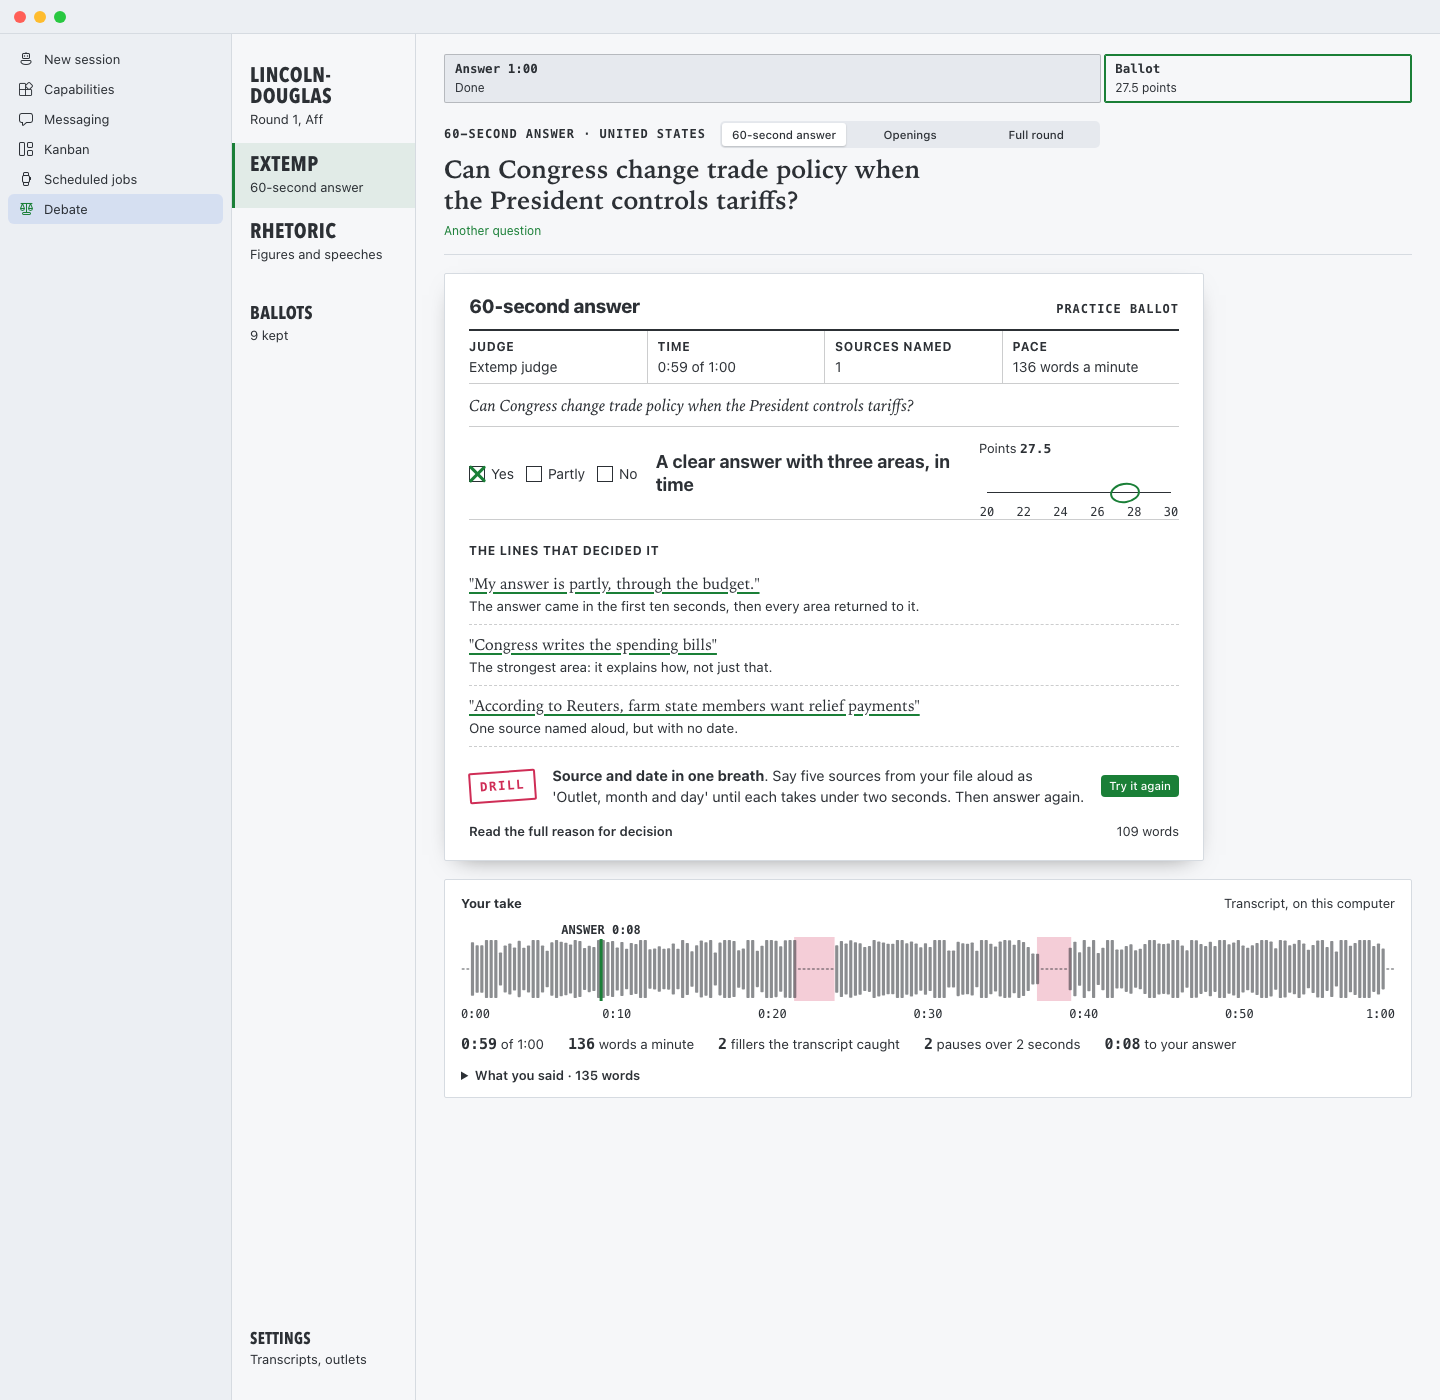
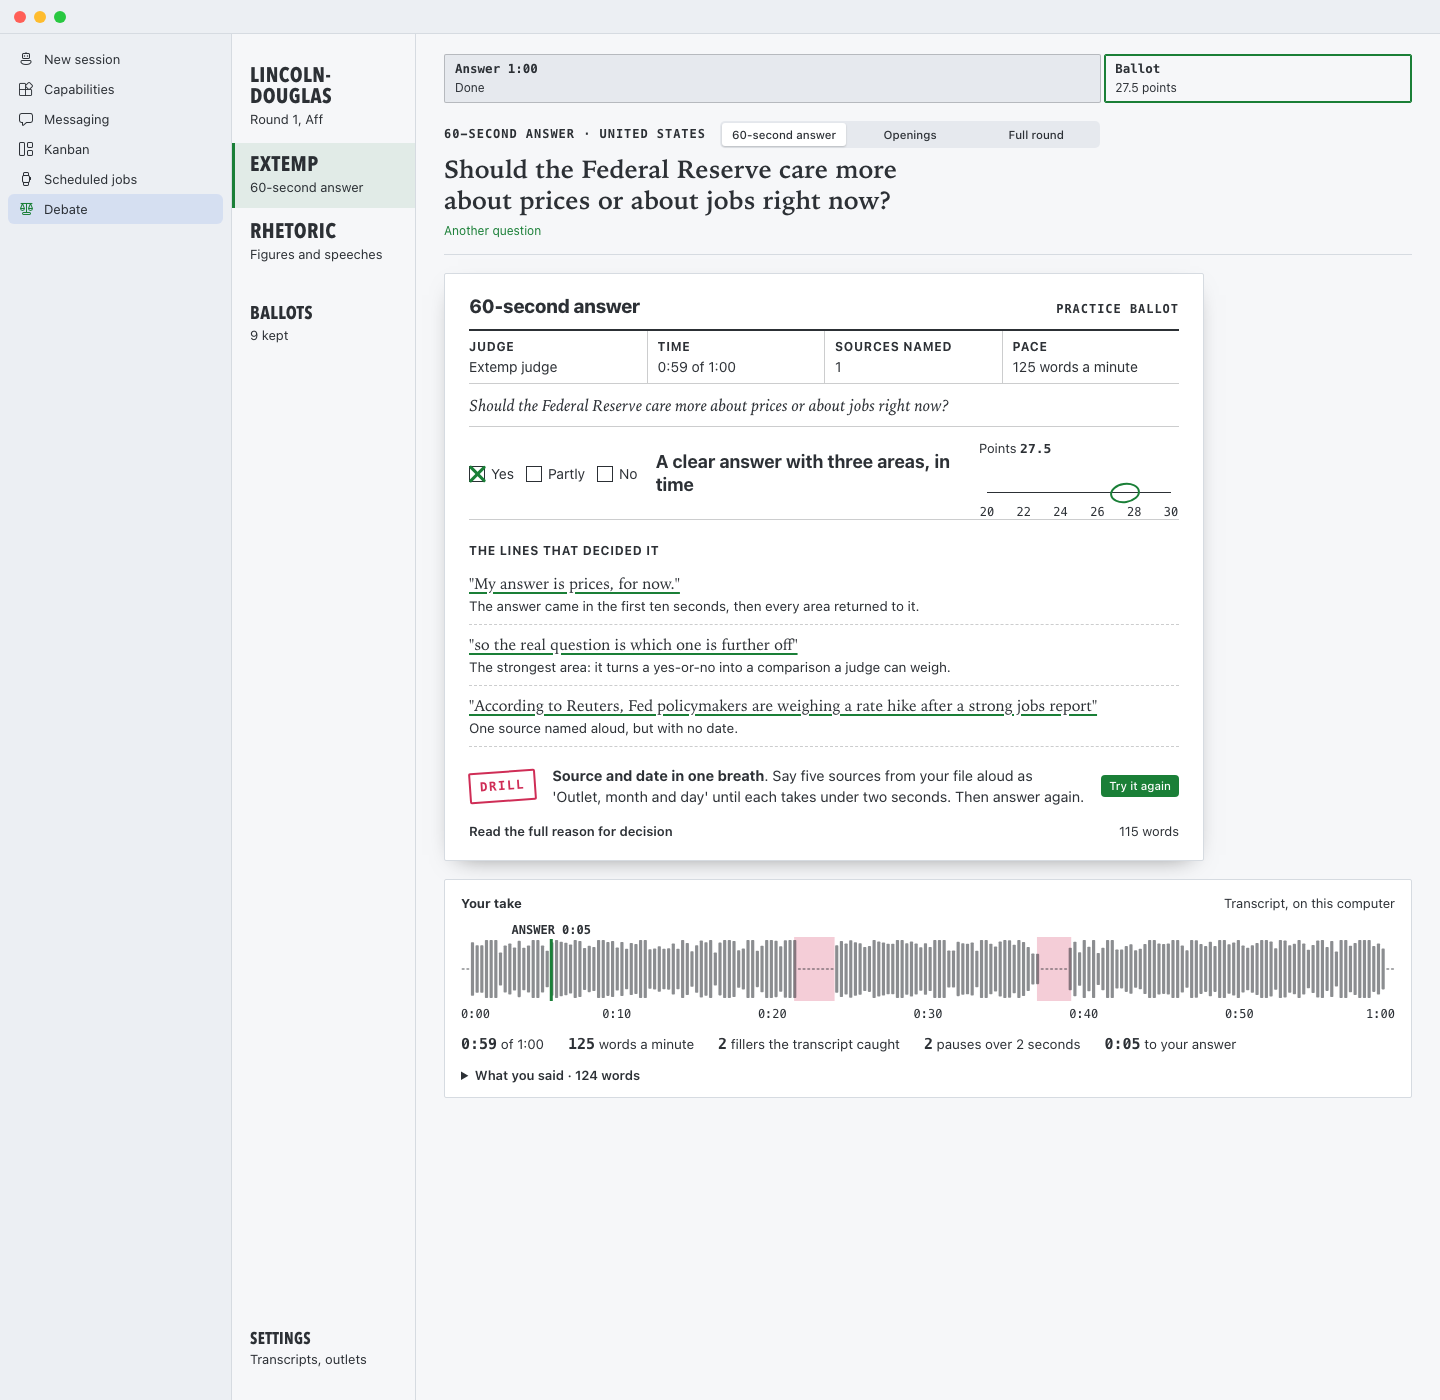
Screens, card and docs for balanced outlets, Remove and the Fed question
All 0.2 screens remade with harness/shoot.sh (light and dark), plus two new
ones for Remove in prep. The catalog card now shows the Fed question. The
changelog, manual, live-test checklist and PR text describe twelve outlets,
five to five by label, and the Remove control.

diff --git a/docs/card.html b/docs/card.html
@@ -27,5 +27,5 @@ html,body{width:1200px;height:600px;overflow:hidden;background:var(--ground);col
     <p>Speak on a real clock. Get the ballot a judge would write.</p>
   </div>
   <ul class="events"><li>Lincoln-Douglas</li><li>Extemp</li><li>Rhetoric</li></ul>
-  <div class="shot"><img src="shots/v02/extemp-speaking-dark.png" alt="A 60-second answer while speaking: the clock at 0:54, the time cards, the voice drawn as it comes in"></div>
+  <div class="shot"><img src="shots/v02/extemp-speaking-dark.png" alt="A 60-second answer while speaking: the clock at 0:43, the time cards, the voice drawn as it comes in"></div>
 </body></html>

diff --git a/CHANGELOG.md b/CHANGELOG.md
@@ -9,7 +9,8 @@ Debate Workbench now covers three events and listens to you speak.
 - **Speaking, on a real clock.** One floor for every event: the event drawn to scale in time across the top, a big clock, and the timekeeper's cards (one card a minute, then 30, then TIME). The clock starts at your first word. Your voice is drawn as it comes in, with a mark over every pause longer than 2 seconds. No microphone? Type, and the time is estimated at 140 words a minute, labeled as estimated.
 - **Takes and transcripts.** Recordings stay on the computer that runs Hermes (newest 20, at most 100 MB, delete-all in Settings). When Hermes's local speech-to-text (faster-whisper) is installed, each take gets a transcript, words a minute, fillers and time to your answer. Without it, every take still gets real timing and pauses.
 - **Extemp.** A 60-second answer that opens ready to speak. Openings: three 45-second openings for one question, and the coach picks the strongest without writing one. The full round: pull this week's headlines on your topic from outlets on the left, center and right, side by side and labeled by lean (you can edit the list and every label); save them to your extemp file; draw three questions from your own news; 30 minutes of prep with an outline and your sources; a 7-minute speech; an extemp ballot. Prep can be files only or internet allowed, through your own Hermes web search.
-- **Default outlets** now include National Review, City Journal (Manhattan Institute), AEI and UnHerd. Labels follow AllSides, checked Nov 7, 2026; UnHerd is rated Center there and sits in the center column.
+- **Default outlets, balanced.** Twelve outlets: NPR, The New York Times, The Atlantic and Washington Monthly on the left; Reuters, AP and UnHerd in the center; the Washington Examiner, The Washington Times, National Review, City Journal (Manhattan Institute) and AEI on the right. By AllSides label that is five leaning left, two center and five leaning right (labels checked Nov 7, 2026; AP sits with the wires but is rated Lean Left). Brookings and The Wall Street Journal are one click away. The outlet editor shows both counts and warns when one side has twice the other.
+- **Your extemp file** can be pruned: every source in prep has Remove, with a confirm. A removed source is also unpicked from the round in progress.
 - **The ballot, read in ten seconds.** The decision, points on the 20 to 30 scale, the three lines that decided it, and one drill stamped on the sheet. Every quoted line is checked against what was said; a line that is not there is flagged.
 - **Ballots.** Every ballot from every event in one list. Patterns judges keep writing are counted in code over your last six rounds ("You drop arguments in the 2AR, 4 of 6"), with R1 to R6 marked W or L. Pace, time, pauses and a late answer are measured from your recordings. Drills can be checked off.
 - **Rhetoric.** Six public-domain speeches with their figures of speech marked, each mark checked against the text. Figures are grouped by the effect they make, with the same definitions The Clearing uses. Spot the figure, write your own line (the coach critiques, never writes), and say it out loud. Further reading: Mark Forsyth, *The Elements of Eloquence*.
@@ -32,6 +33,10 @@ Debate Workbench now covers three events and listens to you speak.
 - Exports are refused in hidden folders and ~/Library.
 - The drill checkbox finds its ballot by time, so it cannot tick the wrong one after old ballots are trimmed.
 - When Hermes cannot open your browser, the link is shown so you can copy it.
+- A feed larger than the download cap no longer comes back empty when its items use namespaced tags (The Atlantic's did).
+- A bare topic page ("Federal Reserve") is no longer listed as a headline.
+- Zeugma and syllepsis, and merism and synecdoche, each have their own definition, the same words as The Clearing, and an example. Zeugma and syllepsis are quoted from public-domain books (Dickens, Pope), since no speech in the library shows them cleanly.
+- The 60-second answer and the openings lab open on a low-partisan question (the Federal Reserve).
 
 ### Compatibility
 

diff --git a/docs/MANUAL.md b/docs/MANUAL.md
@@ -39,11 +39,11 @@ The Extemp floor opens on a **60-second answer**, ready to speak.
 1. **Pull headlines.** Type a topic and press **Pull headlines**. Headlines from each outlet on your list come back in three columns: left and lean left, center and wires, right and lean right. Each outlet carries its lean label. Click a headline to open it in your browser.
 2. **Save to file.** Keep the headlines you want. They become your extemp file.
 3. **Draw.** Pick **United States** or **International** and **Prep: files only** or **Prep: internet allowed**, then **Draw three questions**. The questions come from your own saved news. Pick one. If the draw fails, write your own question.
-4. **Prep, 30 minutes.** Fill the outline: attention-getter, link, your answer, three areas, conclusion. Pick sources from your file. In an internet-allowed round, **Search the web** uses the web search you set up in Hermes, and **Save as a source** adds a result to your file.
+4. **Prep, 30 minutes.** Fill the outline: attention-getter, link, your answer, three areas, conclusion. Pick sources from your file. **Remove** takes a source out of your file for good, after you confirm. In an internet-allowed round, **Search the web** uses the web search you set up in Hermes, and **Save as a source** adds a result to your file.
 5. **Go to the podium** and give a 7-minute speech.
 6. Read the extemp ballot: did you answer the question, how many sources you named and from when, your analysis, organization, delivery and time.
 
-**Your outlets** lets you add, remove and relabel outlets. The default lean labels come from AllSides, checked Nov 7, 2026. Change any label you disagree with. The note above the editor says how many outlets sit on each side.
+**Your outlets** lets you add, remove and relabel outlets. The default lean labels come from AllSides, checked Nov 7, 2026. Change any label you disagree with. The note above the editor says how many outlets sit in each column and how many lean each way by label, and warns when one side has twice the other.
 
 ## Lincoln-Douglas
 

diff --git a/docs/catalog/PR-DESCRIPTION.md b/docs/catalog/PR-DESCRIPTION.md
@@ -14,7 +14,7 @@ SHA bump for `ld-workbench` (Debate Workbench), 0.1.0 to 0.2.0, submitted by the
 
 - **A real clock and the timekeeper's cards.** The event is drawn to scale in time across the top. The microphone records in the page (MediaRecorder); the clock starts at the first sound; pauses over 2 seconds are marked on the waveform.
 - **Transcripts on the user's own machine** with faster-whisper, only when Hermes's local speech-to-text is already installed. No dependency is declared; without it every take is "timing only".
-- **Extemp:** a 60-second answer, three-openings practice, and a full round: this week's headlines on the student's topic from ten outlets on the left, center and right (user-editable, labeled by lean), a draw from the student's own saved news, 30 minutes of prep, a 7-minute speech, a ballot.
+- **Extemp:** a 60-second answer, three-openings practice, and a full round: this week's headlines on the student's topic from twelve outlets on the left, center and right, five to five by lean label (user-editable, labeled by lean), a draw from the student's own saved news, 30 minutes of prep, a 7-minute speech, a ballot.
 - **Rhetoric:** figures of speech marked in six public-domain speeches, every quote checked as an exact substring; spot, write and say drills.
 - **Ballots:** every ballot kept; patterns counted in code from a fixed tag list over the last six rounds.
 

diff --git a/docs/LIVE-TEST.md b/docs/LIVE-TEST.md
@@ -44,7 +44,7 @@ Mark each line **Pass**, **Fail** (with the exact message on screen) or **Skip**
 
 ## 5. Headlines from inside Hermes (P5 passed only from the terminal)
 
-- [ ] Extemp, Full round: type `tariffs`, press **Pull headlines**. Time to full columns: ______ . **Pass:** ten outlets fill three columns, each with its lean label; any outlet that fails says so in its own column.
+- [ ] Extemp, Full round: type `the Federal Reserve`, press **Pull headlines**. Time to full columns: ______ . **Pass:** twelve outlets fill three columns (on Nov 7 all twelve answered through Google News in about 2 s from this Mac), each with its lean label; any outlet that fails says so in its own column.
 - [ ] Click one headline. **Pass:** it opens in your browser. If not: "Hermes could not open your browser. Copy the link instead" with the link shown.
 - [ ] Turn Wi-Fi off, pull again. **Pass:** the last pull shows with a notice, or "No outlet answered..." Turn Wi-Fi back on.
 - [ ] **Save to file** two headlines, then **Draw three questions**. **Pass:** three questions; pick one; prep starts at 30:00.
